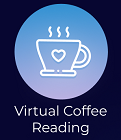
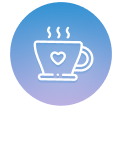
background changes

diff --git a/App.js b/App.js
@@ -709,7 +709,7 @@ function HomeScreen({ navigation }) {
             <Modal isVisible={isModalVisible} style={{ alignItems: "center", flex: 1 }}>
               <View>
                 <Text style={styles.tapCard}>Tap card to flip</Text>
-                <Button title="Hide " onPress={toggleModal} />
+                <Button title="Hide Card" onPress={toggleModal} />
                 <View style={{ marginBottom: 500 }}>
                   <FlipCard
                     flipHorizontal={true}
@@ -779,7 +779,7 @@ function HomeScreen({ navigation }) {
          <Modal isVisible={isFortuneModalVisible} style={{ alignItems: "center", flex: 1 }}>
           <View>
             <Text style={styles.tapCard}>Sorry, you ran out of weekly fortune. Check next week!</Text>
-            <Button title="Hide " onPress={toggleFortuneModal} />
+            <Button title="Hide Card" onPress={toggleFortuneModal} />
             <View style={{ marginBottom: 500 }}>
             </View>
           </View>
@@ -807,7 +807,9 @@ function HomeScreen({ navigation }) {
   
     return (
       <View style={styles.mainContainer}>
-        <View style={{ flex: 1, alignItems: 'center' }}>
+        <ImageBackground source={bgstars} style={styles.bgfull}>
+          
+          
           {/* <View style={{ flexDirection: 'row', width: '100%', justifyContent: 'space-between', padding: 25, marginTop: 18 }}> */}
             {isLoggedIn ? (
               <View>
@@ -821,11 +823,13 @@ function HomeScreen({ navigation }) {
               <Image source={SignInButton} />
             </TouchableOpacity>
               </View>
+              
+              
             }
-            
+           <View style={{ flex: 1, alignItems: 'center' }}>
          {/* <Button title="Clear Async" onPress={ () => { console.log("Async Storage Cleared"); AsyncStorage.clear();}}></Button>
           <Button title="Sign out" onPress={ () => { console.log("User Sign Out"); firebase.auth().signOut()}}></Button> */}
-          <Image source={LargeTitleApp} style={{ marginTop:20 , width: '100%' }} />
+          <Image source={LargeTitleApp} style={{ marginBottom:20 }} />
           {RenderTheFortuneButtons()}
           {/* <Button title="Subscription" onPress={ () => navigation.navigate('Subscription')} /> */}
           <Image source={PickCard} style={{ marginTop:20, margin: 8 }} />
@@ -842,7 +846,9 @@ function HomeScreen({ navigation }) {
           </TouchableOpacity>
           <NavBar />
         </View>
+      </ImageBackground>
       </View>
+      
     );
   }
 
@@ -1948,9 +1954,17 @@ function Horoscopemain({}) {
   const navigation = useNavigation();
     return (
       <ImageBackground source={bgstars} style={styles.bgfull}>
+              <View style={{ flexDirection: 'row', width: '100%', justifyContent: 'space-between', padding: 25, marginTop: 18 }}>
+            <TouchableOpacity onPress={() => navigation.navigate('SignUp')}>
+              <Image source={SignUpButton} />
+            </TouchableOpacity>
+            <TouchableOpacity onPress={() => navigation.navigate('SignIn')}>
+              <Image source={SignInButton} />
+            </TouchableOpacity>
+          </View>
       <View >
         <View style={{  alignItems: 'center' }}>
-          <View style={{ flexDirection: 'row', width: '100%', justifyContent: 'space-between', padding: 25, marginTop: 18 }}>
+          <View style={{ flexDirection: 'row', width: '100%', justifyContent: 'space-between', padding: 25, marginTop: -90 }}>
             <TouchableOpacity onPress={() => navigation.navigate('SignUp')}>
               <Image source={SignUpButton} />
             </TouchableOpacity>
@@ -1959,7 +1973,7 @@ function Horoscopemain({}) {
             </TouchableOpacity>
           </View>
           <Image source={Horoscopetxt} style={{ }} />
-          <View style={{ flexDirection: 'row', width: '100%', justifyContent: 'center', padding:2, marginTop:40}}>
+          <View style={{ flexDirection: 'row', width: '100%', justifyContent: 'center', padding:2, marginTop:30}}>
           <TouchableOpacity onPress={() => navigation.navigate('HoroscopeAries')}>
             <Image source={Ariesbttn} />
           </TouchableOpacity>
@@ -7651,8 +7665,8 @@ function Horoscopepisces({}) {
 
   return (
     <View style={styles.mainContainer}>
-      <View style={{  alignItems: 'center' }}>
-        <View style={{ flexDirection: 'row', width: '100%', justifyContent: 'space-between', padding: 25, marginTop: 18 }}>
+      <ImageBackground source={bgstars} style={styles.bgfull}>
+      <View style={{ flexDirection: 'row', width: '100%', justifyContent: 'space-between', padding: 25, marginTop: 18 }}>
           <TouchableOpacity onPress={() => navigation.navigate('SignUp')}>
             <Image source={SignUpButton} />
           </TouchableOpacity>
@@ -7660,6 +7674,7 @@ function Horoscopepisces({}) {
             <Image source={SignInButton} />
           </TouchableOpacity>
         </View>
+      <View style={{  alignItems: 'center' }}>  
 
         <View style={{ flexDirection: 'row', width: '100%', justifyContent: 'space-evenly' }}>
         <View style={{ flexDirection: 'column', justifyContent: 'space-evenly' , marginRight:12 }}>
@@ -7719,8 +7734,9 @@ function Horoscopepisces({}) {
        
       </View>
       <NavBar_hor/>
-      
+      </ImageBackground>
       </View>
+    
    
   );
 
